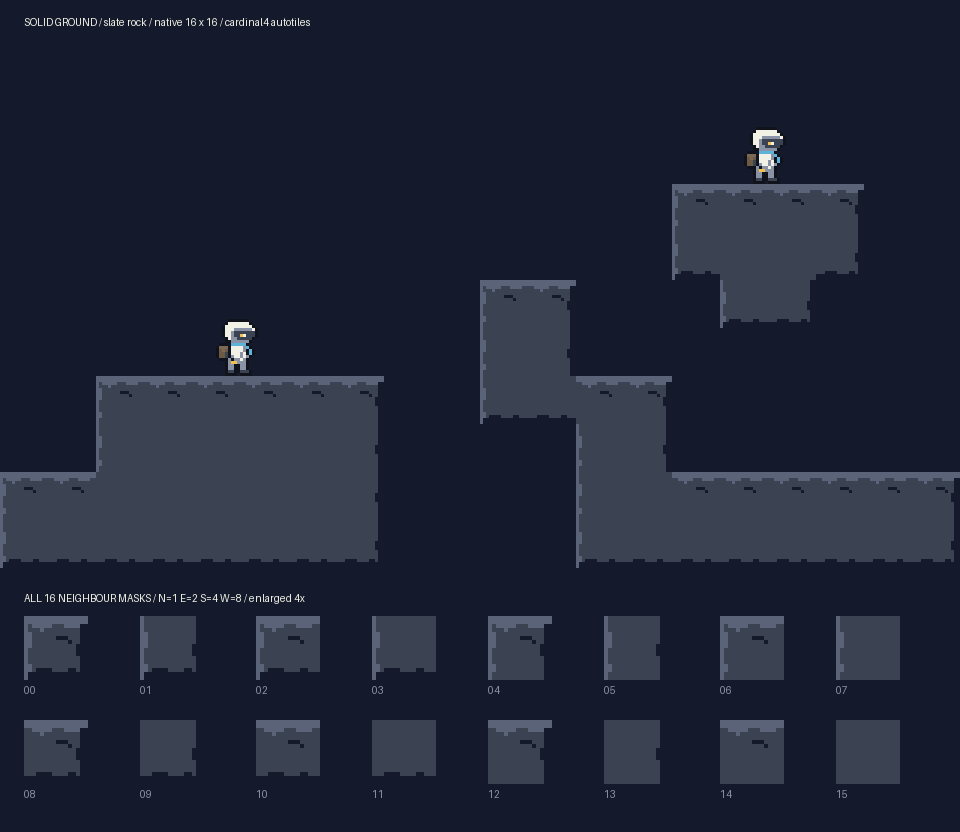
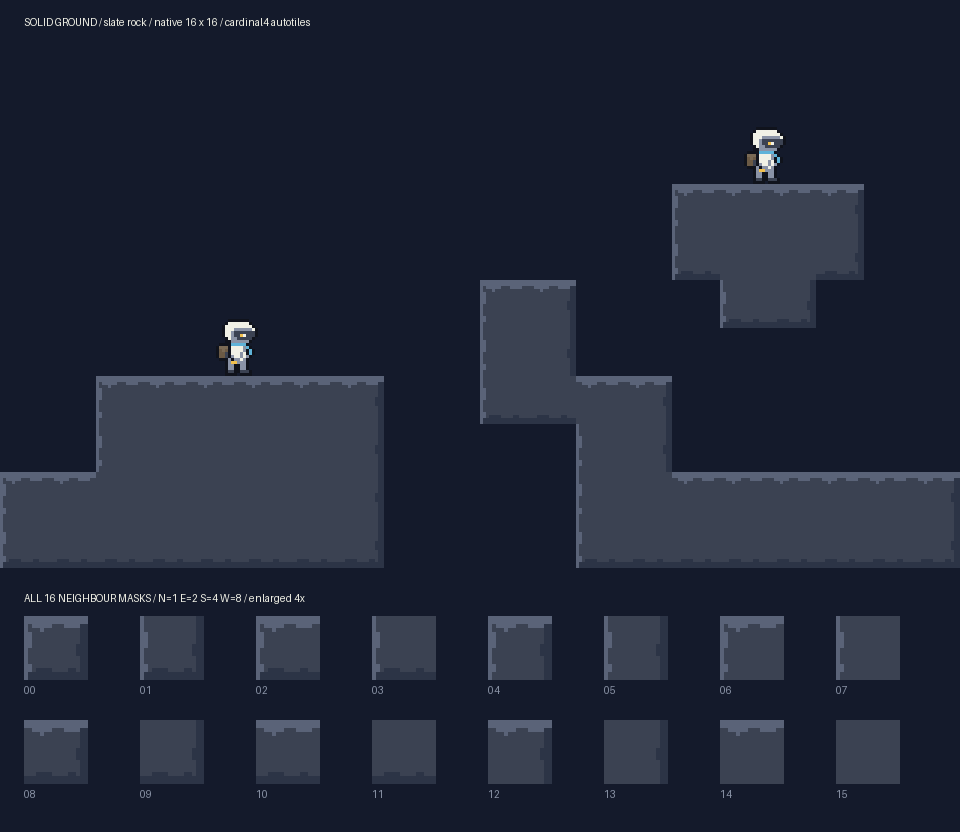
Solid tiles v2

diff --git a/art/tiles/solid.py b/art/tiles/solid.py
@@ -8,7 +8,8 @@ HERE = Path(__file__).resolve().parent
 PALETTE = json.loads((ROOT / 'client/assets/manifest.json').read_text())['palette']
 FILL = PALETTE['terrain']
 EDGE = PALETTE['terrainEdge']
-SHADOW = PALETTE['sky']
+# Art-only terrain shade: lighter than the sky, darker than the rock face.
+SHADOW = '#2c3446'
 
 
 def tile(mask):
@@ -35,8 +36,6 @@ def tile(mask):
         d.line((2, 2, 6, 2), fill=EDGE)
         d.line((10, 2, 13, 2), fill=EDGE)
         d.point((4, 3), fill=EDGE)
-        d.line((8, 5, 10, 5), fill=SHADOW)
-        d.point((11, 6), fill=SHADOW)
     return im
 
 

diff --git a/ART.md b/ART.md
@@ -36,6 +36,10 @@ Rules:
 
 Colors are defined in `manifest.json` → `palette`. The game uses them **now** for the flat-color fallback, so art and fallback look consistent. The palette may be adjusted, and changing it here recolors the fallback everywhere.
 
+Solid-ground art also uses a dedicated shadow shade, `#2c3446`, defined in its
+source generator. This art-only color separates shadowed rock from the sky
+without adding a runtime palette key or changing other assets.
+
 | Key | Used for |
 |---|---|
 | `sky` | background behind the level |
@@ -154,9 +158,12 @@ Art completion is separate from renderer/gameplay implementation.
 
 ### Solid ground — first style pass
 
-Muted slate rock uses the existing `terrain`, `terrainEdge`, and `sky` colors.
+Muted slate rock uses the existing `terrain` and `terrainEdge` colors plus the
+art-only shadow shade `#2c3446`, which remains distinct from the sky.
 Exposed top edges have a light chipped rim; left faces catch light and right/bottom
 faces are shadowed. Interiors remain plain so connected tiles do not form a grid.
+The repeating interior crack has been removed; crack detail is deferred until
+tile variants can avoid obvious repetition.
 
 The native 16×16 frames are exported as a 256×16 cardinal4 strip in
 [client/assets/tiles/solid.png](client/assets/tiles/solid.png). The full strip passes

diff --git a/art/tiles/README.md b/art/tiles/README.md
@@ -2,8 +2,10 @@
 
 Muted slate rock with a continuous light top rim, small chips along exposed
 edges, a lit left face, and shadowed right/bottom faces. Interiors are plain
-so large filled areas do not become a grid of outlined blocks. All colors
-come from the existing manifest; no palette entries are changed.
+so large filled areas do not become a grid of outlined blocks. Fill and highlight
+come from the manifest. The art-only shadow shade is `#2c3446`, lighter than the
+sky so exposed right/bottom faces remain visible. No runtime palette keys change.
+Repeated interior cracks are omitted until tile variants are supported.
 
 `solid.py` draws directly at 16×16 using Python 3 and Pillow. Regenerate with:
 
